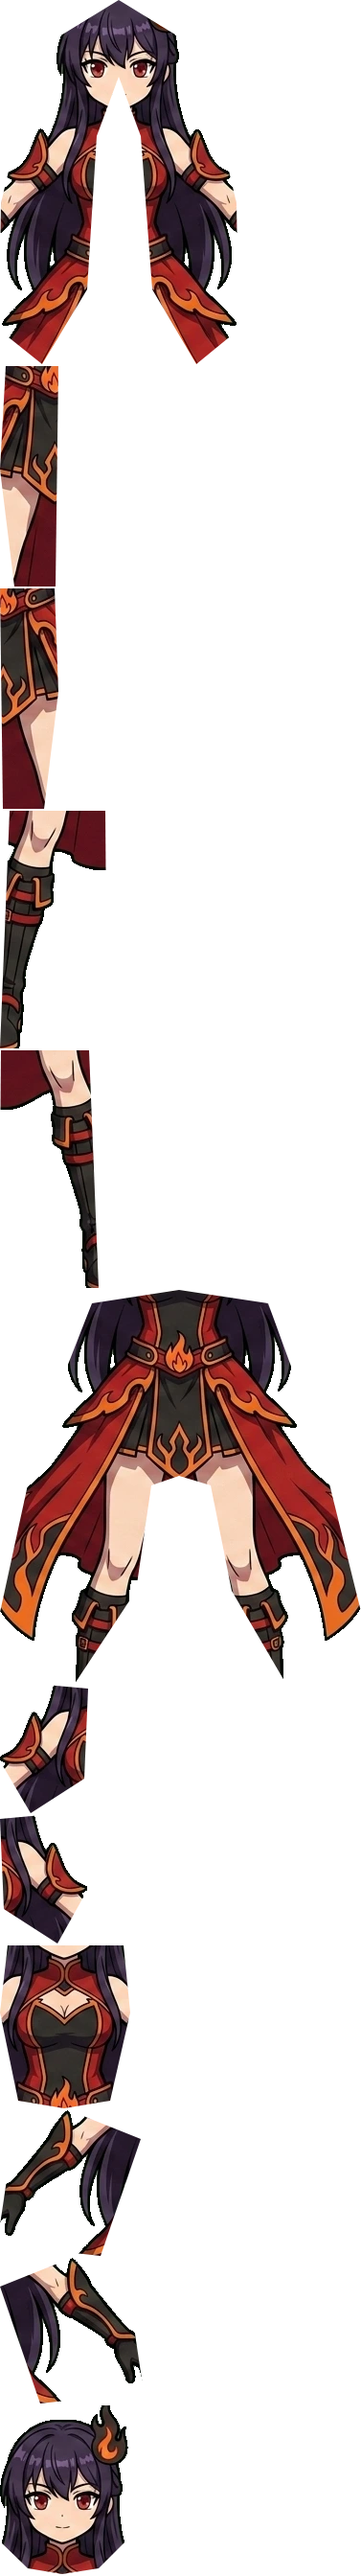
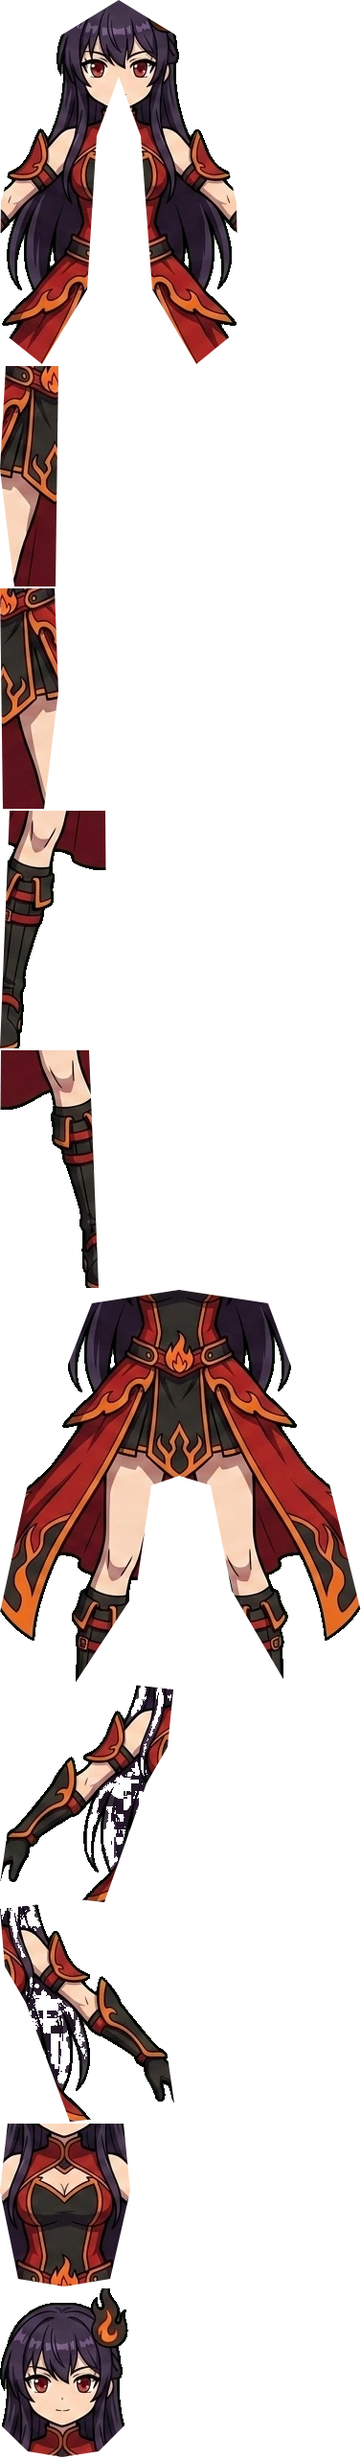
fix(art): 修复立绘骨骼"4只手"——整条手臂一根骨 + 抠掉手臂夹带的头发
问题:之前上臂/前臂两段切件互相夹带——上臂多边形抓到了手套、前臂抓到了
紫发。抬手时手套在肘部重影、紫发块飞起来,看着像4只手。
修复:
- 手臂改为单骨(肩→手整条一根),消除肘部重影。
- subHair:抽取时在头发区域内按发色把紫发抠掉,手臂不再夹带头发。
- 待机/挥手/张臂/欢呼姿势经无头渲染逐一核验,均为单臂、无重影。
立绘定位是大厅待机微动作;肘部弯曲(战斗大幅挥击)后续接入战斗时再加。

Claude-Session: https://claude.ai/code/session_01QGRynvBqtept4T7sdccom5

Changed region(s): [[0.0, 0.0, 1.0, 1.0]]

diff --git a/scripts/rig-build.js b/scripts/rig-build.js
@@ -15,10 +15,8 @@ const BONES = [
   ['neck', 'chest', [235, 150]],
   ['head', 'neck', [235, 140]],
   ['hair', 'chest', [235, 150]],
-  ['shoulderL', 'chest', [188, 168]],   // 图左 = 角色右臂
-  ['forearmL', 'shoulderL', [150, 250]],
-  ['shoulderR', 'chest', [285, 168]],
-  ['forearmR', 'shoulderR', [322, 250]],
+  ['armL', 'chest', [188, 168]],        // 图左 = 角色右臂；整条手臂一根骨
+  ['armR', 'chest', [285, 168]],
   ['thighL', 'root', [212, 305]],
   ['shinL', 'thighL', [205, 480]],
   ['thighR', 'root', [260, 305]],
@@ -27,6 +25,9 @@ const BONES = [
 
 // ---- 部件：name, bone, z, 多边形(源图坐标) ----
 // 多边形尽量覆盖该部件，并在关节处向父件多伸 10~20px 作重叠。
+// subHair:true → 抽取后把"头发区域"像素抠掉(头发只归 hair_back，手臂不夹带头发)。
+const HAIR_MASK = [   // 头发占据的大致区域(用于从手臂里减掉头发)
+  [150,80],[104,250],[100,400],[160,430],[210,330],[214,150],[235,90],[256,150],[262,330],[312,430],[366,400],[362,250],[322,80],[235,30] ];
 const PARTS = [
   { name: 'hair_back', bone: 'hair', z: 0, poly: [
     [150,90],[112,250],[110,382],[155,418],[202,340],[212,180],[235,118],[258,180],[270,340],[316,418],[360,382],[358,250],[320,90],[235,38] ] },
@@ -39,14 +40,13 @@ const PARTS = [
   { name: 'skirt', bone: 'spine', z: 20, poly: [
     [144,248],[86,396],[42,598],[120,654],[190,548],[206,438],[235,428],[268,438],[290,548],[352,654],[432,598],[382,396],[328,248],[235,234] ] },
 
-  { name: 'armL_up', bone: 'shoulderL', z: 30, poly: [[143,142],[210,148],[206,242],[150,278],[110,210]] },
-  { name: 'armR_up', bone: 'shoulderR', z: 30, poly: [[262,148],[328,142],[360,210],[322,278],[266,242]] },
+  { name: 'armL', bone: 'armL', z: 30, subHair: true, poly: [
+    [143,142],[212,150],[206,210],[184,248],[140,372],[30,360],[46,248],[100,196] ] },
+  { name: 'armR', bone: 'armR', z: 30, subHair: true, poly: [
+    [259,150],[328,142],[372,196],[426,248],[442,360],[332,372],[286,248],[264,210] ] },
 
   { name: 'torso', bone: 'chest', z: 40, poly: [
     [176,140],[297,140],[304,210],[283,302],[235,310],[187,302],[168,210] ] },
-
-  { name: 'armL_fore', bone: 'forearmL', z: 50, poly: [[92,214],[182,250],[140,372],[32,360],[48,252]] },
-  { name: 'armR_fore', bone: 'forearmR', z: 50, poly: [[290,250],[380,214],[424,252],[440,360],[332,372]] },
 
   { name: 'head', bone: 'head', z: 60, poly: [
     [160,26],[176,10],[294,10],[310,40],[303,150],[273,180],[235,186],[199,180],[168,150] ] },
@@ -70,15 +70,30 @@ function bboxOf(ctx, w, h) {
   const img = await loadImage(SRC); const W = img.width, H = img.height;
   const boneMap = {}; BONES.forEach(b => boneMap[b[0]] = { name: b[0], parent: b[1], pivot: b[2] });
 
+  // 紫发判定：紫罗兰(B>R 且 R>=G 的发色)，用于把头发从手臂里抠掉
+  const isHair = (R, G, B, A) => A > 8 && B > R + 4 && R >= G - 4 && B > 40 && (R - G) < 45;
   // 抽取每个部件到独立 canvas（裁到 bbox）
   const extracted = [];
   for (const p of PARTS) {
     const c = createCanvas(W, H), x = c.getContext('2d');
     x.save(); clipPoly(x, p.poly); x.drawImage(img, 0, 0); x.restore();
+    // subHair：仅在 HAIR_MASK 区域内、且像素为发色时抠掉
+    if (p.subHair) {
+      const mc = createCanvas(W, H), mx = mc.getContext('2d');
+      mx.save(); clipPoly(mx, HAIR_MASK); mx.fillStyle = '#fff'; mx.fillRect(0, 0, W, H); mx.restore();
+      const inMask = mx.getImageData(0, 0, W, H).data;
+      const id = x.getImageData(0, 0, W, H); const d = id.data;
+      for (let i = 0; i < d.length; i += 4) {
+        if (inMask[i + 3] > 0 && isHair(d[i], d[i + 1], d[i + 2], d[i + 3])) d[i + 3] = 0;
+      }
+      x.putImageData(id, 0, 0);
+    }
     const bb = bboxOf(x, W, H);
     if (!bb) { console.warn('空部件', p.name); continue; }
     const pc = createCanvas(bb.w, bb.h), px = pc.getContext('2d');
     px.drawImage(c, bb.x, bb.y, bb.w, bb.h, 0, 0, bb.w, bb.h);
+    // 把抠发后的 alpha 同步到裁切图
+    if (p.subHair) { px.clearRect(0, 0, bb.w, bb.h); px.drawImage(x.canvas, bb.x, bb.y, bb.w, bb.h, 0, 0, bb.w, bb.h); }
     extracted.push({ part: p, bb, canvas: pc });
   }
 

diff --git a/rig-demo.html b/rig-demo.html
@@ -35,8 +35,8 @@
       <div class="hint" id="hint">这一张立绘切成12个部件、绑骨骼，呼吸/摇摆/头发都是代码驱动。和BD2大厅立绘同思路:一次绑定,永久一致。</div>
     </div>
   </div>
-  <script>window.ASSET_VER='71';</script>
-  <script src="js/rig.js?v=71"></script>
+  <script>window.ASSET_VER='72';</script>
+  <script src="js/rig.js?v=72"></script>
   <script>
   (async function () {
     const V = window.ASSET_VER || '1';
@@ -59,18 +59,16 @@
         neck:  { rot: -sway*0.5 },
         head:  { rot: sway*1.4 + drift*1.1, ty: -b*0.8 },
         hair:  { rot: sway*2.3 + b2*1.1 },
-        shoulderL: { rot: -sway*0.9 + b*0.7 },
-        forearmL:  { rot: sway*1.3 + b*0.6 },
-        shoulderR: { rot: -sway*0.9 - b*0.7 },
-        forearmR:  { rot: sway*1.3 - b*0.6 },
+        armL:  { rot: -sway*1.1 + b*0.9 },
+        armR:  { rot: -sway*1.1 - b*0.9 },
       };
     }
-    // 展示用静态姿势（看骨骼能动）
+    // 展示用静态姿势（看骨骼能动）—— 整条手臂一根骨，抬手干净不重影
     const POSES = {
       idle: null,
-      tpose: { shoulderL:{rot:60},forearmL:{rot:20},shoulderR:{rot:-60},forearmR:{rot:-20} },
+      tpose: { armL:{rot:55}, armR:{rot:-55} },
       wave:  null, // 动态:右手挥
-      cheer: { shoulderL:{rot:80},forearmL:{rot:40},shoulderR:{rot:-80},forearmR:{rot:-40},spine:{ty:-4} },
+      cheer: { armL:{rot:80}, armR:{rot:-80}, spine:{ty:-4} },
     };
     let mode = 'idle';
     const bar = document.getElementById('bar'); bar.innerHTML = '<span class="label">展示</span>';
@@ -86,9 +84,7 @@
 
     function wavePose(t){
       const p = idlePose(t);
-      const s = (Math.sin(t*4)+1)/2;               // 0..1
-      p.shoulderR = { rot: -70 - s*15 };
-      p.forearmR  = { rot: -30 + Math.sin(t*8)*18 };
+      p.armR = { rot: -88 + Math.sin(t*7)*12 };     // 举右手左右摆动
       p.head = { rot: 4 };
       return p;
     }
